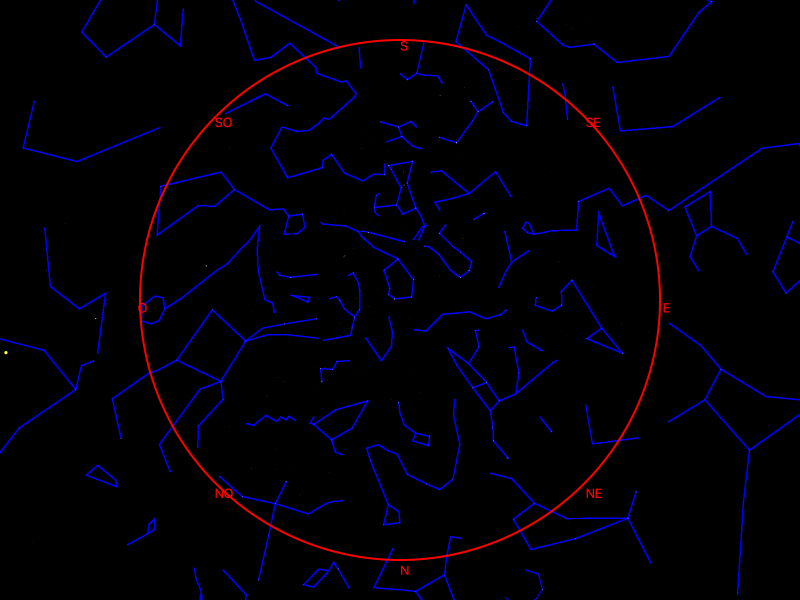
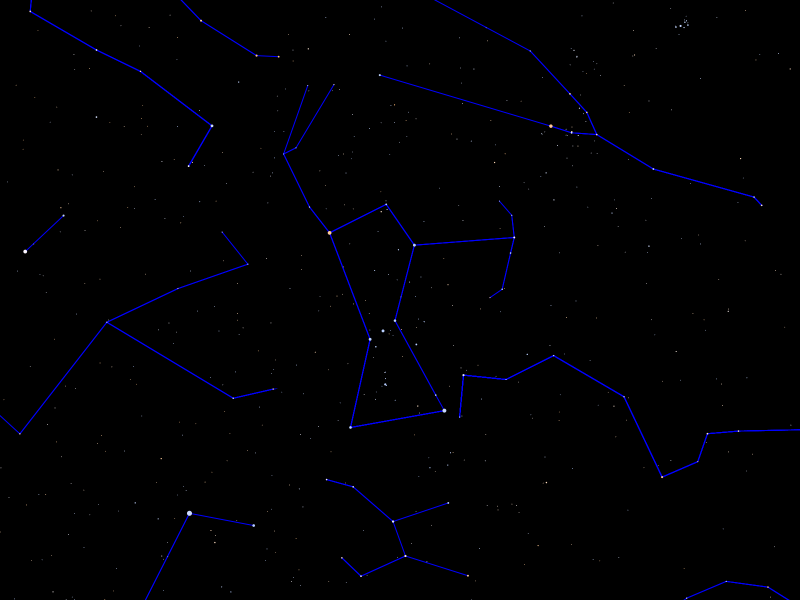
étape 8 améliorations

diff --git a/src/ch/epfl/rigel/gui/SkyCanvasPainter.java b/src/ch/epfl/rigel/gui/SkyCanvasPainter.java
@@ -2,6 +2,8 @@ package ch.epfl.rigel.gui;
 
 import ch.epfl.rigel.astronomy.Asterism;
 import ch.epfl.rigel.astronomy.ObservedSky;
+import ch.epfl.rigel.astronomy.Planet;
+import ch.epfl.rigel.astronomy.Star;
 import ch.epfl.rigel.coordinates.CartesianCoordinates;
 import ch.epfl.rigel.coordinates.HorizontalCoordinates;
 import ch.epfl.rigel.coordinates.StereographicProjection;
@@ -19,126 +21,130 @@ public final class SkyCanvasPainter {
     private Canvas canvas;
     private GraphicsContext ctx;
 
-    private final Color blue = Color.BLUE;
-    private final Color grey = Color.LIGHTGREY;
-    private final Color white = Color.WHITE;
-    private final Color yellow = Color.YELLOW;
-    private final Color opaqueYellow = yellow.deriveColor(1,1,1,0.25);
-    private final Color red = Color.RED;
-    private final Color black = Color.BLACK;
+    private static final Color BLUE = Color.BLUE;
+    private static final Color GREY = Color.LIGHTGREY;
+    private static final Color WHITE = Color.WHITE;
+    private static final Color YELLOW = Color.YELLOW;
+    private static final Color OPAQUE_YELLOW = YELLOW.deriveColor(1, 1, 1, 0.25);
+    private static final Color RED = Color.RED;
+    private static final Color BLACK = Color.BLACK;
 
     private final ClosedInterval interval = ClosedInterval.of(-2, 5);
 
-    public SkyCanvasPainter(Canvas canvas){
+    public SkyCanvasPainter(Canvas canvas) {
         this.canvas = canvas;
         this.ctx = canvas.getGraphicsContext2D();
     }
 
-    public void clear(){
-        ctx.setFill(black);
+    public void clear() {
+        ctx.setFill(BLACK);
         ctx.fillRect(0, 0, canvas.getWidth(), canvas.getHeight());
     }
 
-    public void drawStars(ObservedSky sky, StereographicProjection projection, Transform planeToCanvas){
-        double[] transformedCoordinates = sky.starPositions();
-        planeToCanvas.transform2DPoints(transformedCoordinates, 0, transformedCoordinates, 0, transformedCoordinates.length/2);
-        for(int i=0; i<sky.stars().size(); ++i){
-            double diametre = size(sky.stars().get(i).magnitude(), projection);
-            Point2D point = planeToCanvas.deltaTransform(diametre, 0);
-            double trueDiametre = Math.abs(point.getX());
-            ctx.setFill(BlackBodyColor.colorForTemperature(sky.stars().get(i).colorTemperature()));
-            ctx.fillOval(transformedCoordinates[2*i]-trueDiametre/2, transformedCoordinates[2*i+1]-trueDiametre/2, trueDiametre, trueDiametre);
-        }
-    }
-
-    public void drawPlanets(ObservedSky sky, StereographicProjection projection, Transform planeToCanvas){
-        ctx.setFill(grey);
-        double[] transformedCoordinates = sky.planetPositions();
-        planeToCanvas.transform2DPoints(transformedCoordinates, 0, transformedCoordinates, 0, transformedCoordinates.length/2);
-        for(int i=0; i<sky.planets().size(); ++i){
-            final double diametre = size(sky.planets().get(i).magnitude(), projection);
-            Point2D point = planeToCanvas.deltaTransform(diametre, 0);
-            double trueDiametre = Math.abs(point.getX());
-            ctx.fillOval(transformedCoordinates[2*i]-trueDiametre/2, transformedCoordinates[2*i+1]-trueDiametre/2, trueDiametre, trueDiametre);
-        }
-    }
-
-    public void drawSun(ObservedSky sky, StereographicProjection projection, Transform planeToCanvas){
-        double[] transformedCoordinates = {sky.sunPosition().x(), sky.sunPosition().y()};
-        planeToCanvas.transform2DPoints(transformedCoordinates, 0, transformedCoordinates, 0, 1);
-        final double radius = projection.applyToAngle(sky.sun().angularSize())/2;
-        Point2D point = planeToCanvas.deltaTransform(radius, radius);
-        double trueRadius = Math.abs(point.getX()) + Math.abs(point.getY());
-        ctx.setFill(opaqueYellow);
-        ctx.fillOval(transformedCoordinates[0]-2.2*trueRadius/2, transformedCoordinates[1]-2.2*trueRadius/2, 2.2*trueRadius, 2.2*trueRadius);
-        ctx.setFill(yellow);
-        ctx.fillOval(transformedCoordinates[0]-(trueRadius+2)/2, transformedCoordinates[1]-(trueRadius+2)/2, (trueRadius+2), (trueRadius+2));
-        ctx.setFill(white);
-        ctx.fillOval(transformedCoordinates[0]-trueRadius/2, transformedCoordinates[1]-trueRadius/2, trueRadius, trueRadius);
-    }
-
-    public void drawMoon(ObservedSky sky, StereographicProjection projection, Transform planeToCanvas){
-        double[] transformedCoordinates = {sky.moonPosition().x(), sky.moonPosition().y()};
-        planeToCanvas.transform2DPoints(transformedCoordinates, 0, transformedCoordinates, 0, 1);
-        final double radius = projection.applyToAngle(sky.moon().angularSize())/2;
-        Point2D point = planeToCanvas.deltaTransform(radius, radius);
-        double trueRadius = Math.abs(point.getX()) + Math.abs(point.getY());
-        ctx.setFill(white);
-        ctx.fillOval(transformedCoordinates[0]-trueRadius/2, transformedCoordinates[1]-trueRadius/2, trueRadius, trueRadius);
-    }
-
-    public void drawAsterism(ObservedSky sky, Transform planeToCanvas){
-        ctx.setStroke(blue);
+    public void drawAsterism(ObservedSky sky, Transform planeToCanvas) {
+        ctx.setStroke(BLUE);
         ctx.setLineWidth(1);
+        double[] skyCoordinates = sky.starPositions();
         double[] previousCoordinates = new double[2];
-        double[] actualCoordinates = new double[2];
-        for(Asterism a : sky.asterism()){
-            for(int i=0; i<a.stars().size(); ++i){
-                final int index = sky.asterismIndices(a).get(i);
-                actualCoordinates[0] = sky.starPositions()[2*index];
-                actualCoordinates[1] = sky.starPositions()[2*index + 1];
-                planeToCanvas.transform2DPoints(actualCoordinates, 0, actualCoordinates, 0, 1);
-                if(i==0){
-                    ctx.moveTo(actualCoordinates[0], actualCoordinates[1]);
-                    previousCoordinates = actualCoordinates;
-                }
-                ctx.lineTo(actualCoordinates[0], actualCoordinates[1]);
-                if(canvas.getBoundsInLocal().contains(actualCoordinates[0], actualCoordinates[1]) || canvas.getBoundsInLocal().contains(previousCoordinates[0], previousCoordinates[1])){
+        for (Asterism a : sky.asterism()) {
+            ctx.beginPath();
+            int[] indices = sky.asterismIndices(a).stream()
+                                                  .mapToInt(Integer :: intValue)
+                                                  .toArray();
+            for (int i=0; i<indices.length; ++i) {
+                int index = indices[i];
+                double[] coordinates = {skyCoordinates[2*index], skyCoordinates[2*index + 1]};
+                planeToCanvas.transform2DPoints(coordinates, 0, coordinates, 0, 1);
+                ctx.lineTo(coordinates[0], coordinates[1]);
+                if (canvas.getBoundsInLocal().contains(coordinates[0], coordinates[1]) || canvas.getBoundsInLocal().contains(previousCoordinates[0], previousCoordinates[1])) {
                     ctx.stroke();
                 }
-                previousCoordinates = actualCoordinates;
+                previousCoordinates = coordinates;
             }
         }
     }
 
-    public void drawHorizon(StereographicProjection projection, Transform planeToCanvas){
-        ctx.setStroke(red);
-        ctx.setLineWidth(2);
-        CartesianCoordinates coordinates = projection.circleCenterForParallel(HorizontalCoordinates.of(0,0));
-        double[] transformedCoordinates = {coordinates.x(), coordinates.y()};
-        planeToCanvas.transform2DPoints(transformedCoordinates, 0, transformedCoordinates, 0, 1);
-        double radius = projection.circleRadiusForParallel(HorizontalCoordinates.of(0,0));
-        Point2D point = planeToCanvas.deltaTransform(radius, radius);
-        double trueRadius = Math.abs(point.getX()) + Math.abs(point.getY());
-        ctx.strokeOval(transformedCoordinates[0]-trueRadius/2, transformedCoordinates[1]-trueRadius/2, trueRadius, trueRadius);
-        drawCardinalPoints(projection, planeToCanvas);
-    }
-
-    private void drawCardinalPoints(StereographicProjection projection, Transform planeToCanvas){
-        ctx.setFill(Color.RED);
-        ctx.setTextBaseline(VPos.TOP);
-        for (int i=0; i<8; ++i){
-            HorizontalCoordinates hor = HorizontalCoordinates.ofDeg(45*i, -0.5);
-            CartesianCoordinates coordinates = projection.apply(hor);
-            double[] transformedCoordinates = {coordinates.x(), coordinates.y()};
-            planeToCanvas.transform2DPoints(transformedCoordinates, 0, transformedCoordinates, 0, 1);
-            ctx.fillText(hor.azOctantName("N", "E", "S", "O"), transformedCoordinates[0], transformedCoordinates[1]);
+    public void drawStars(ObservedSky sky, StereographicProjection projection, Transform planeToCanvas) {
+        double[] coordinates = sky.starPositions();
+        planeToCanvas.transform2DPoints(coordinates, 0, coordinates, 0, coordinates.length/2);
+        Star[] stars = sky.stars().stream()
+                                  .toArray(Star[]::new);
+        for (int i=0; i<stars.length; ++i) {
+            double diameter = size(stars[i].magnitude(), projection);
+            Point2D transform = planeToCanvas.deltaTransform(diameter, 0);
+            double trueDiameter = Math.abs(transform.getX());
+            ctx.setFill(BlackBodyColor.colorForTemperature(stars[i].colorTemperature()));
+            ctx.fillOval(coordinates[2*i]-trueDiameter/2, coordinates[2*i+1]-trueDiameter/2, trueDiameter, trueDiameter);
         }
     }
 
-    private double size(double magnitude, StereographicProjection projection){
+    public void drawPlanets(ObservedSky sky, StereographicProjection projection, Transform planeToCanvas) {
+        ctx.setFill(GREY);
+        double[] coordinates = sky.planetPositions();
+        planeToCanvas.transform2DPoints(coordinates, 0, coordinates, 0, coordinates.length / 2);
+        Planet[] planets = sky.planets().stream()
+                                        .toArray(Planet[]::new);
+        for (int i=0; i<planets.length; ++i) {
+            final double diameter = size(planets[i].magnitude(), projection);
+            Point2D transform = planeToCanvas.deltaTransform(diameter, 0);
+            double trueDiameter = Math.abs(transform.getX());
+            ctx.fillOval(coordinates[2*i]-trueDiameter/2, coordinates[2*i+1]-trueDiameter/2, trueDiameter, trueDiameter);
+        }
+    }
+
+    public void drawSun(ObservedSky sky, StereographicProjection projection, Transform planeToCanvas) {
+        double[] coordinates = {sky.sunPosition().x(), sky.sunPosition().y()};
+        planeToCanvas.transform2DPoints(coordinates, 0, coordinates, 0, 1);
+        final double diameter = projection.applyToAngle(sky.sun().angularSize());
+        Point2D transform = planeToCanvas.deltaTransform(diameter, 0);
+        double trueDiameter = Math.abs(transform.getX());
+        ctx.setFill(OPAQUE_YELLOW);
+        ctx.fillOval(coordinates[0]-2.2*trueDiameter/2, coordinates[1]-2.2*trueDiameter/2, 2.2*trueDiameter, 2.2*trueDiameter);
+        ctx.setFill(YELLOW);
+        ctx.fillOval(coordinates[0]-(trueDiameter+2)/2, coordinates[1]-(trueDiameter+2)/2, (trueDiameter+2), (trueDiameter+2));
+        ctx.setFill(WHITE);
+        ctx.fillOval(coordinates[0]-trueDiameter/2, coordinates[1]-trueDiameter/2, trueDiameter, trueDiameter);
+    }
+
+    public void drawMoon(ObservedSky sky, StereographicProjection projection, Transform planeToCanvas) {
+        ctx.setFill(WHITE);
+        double[] coordinates = {sky.moonPosition().x(), sky.moonPosition().y()};
+        planeToCanvas.transform2DPoints(coordinates, 0, coordinates, 0, 1);
+        final double diameter = projection.applyToAngle(sky.moon().angularSize());
+        Point2D transform = planeToCanvas.deltaTransform(diameter, 0);
+        double trueDiameter = Math.abs(transform.getX());
+        ctx.fillOval(coordinates[0]-trueDiameter/2, coordinates[1]-trueDiameter/2, trueDiameter, trueDiameter);
+    }
+
+    public void drawHorizon(StereographicProjection projection, Transform planeToCanvas) {
+        ctx.setStroke(RED);
+        ctx.setLineWidth(2);
+        CartesianCoordinates center = projection.circleCenterForParallel(HorizontalCoordinates.of(0, 0));
+        double[] coordinates = {center.x(), center.y()};
+        planeToCanvas.transform2DPoints(coordinates, 0, coordinates, 0, 1);
+        double diameter = 2 * projection.circleRadiusForParallel(HorizontalCoordinates.of(0, 0));
+        Point2D point = planeToCanvas.deltaTransform(diameter, 0);
+        double trueDiameter = Math.abs(point.getX());
+        ctx.strokeOval(coordinates[0]-trueDiameter/2, coordinates[1]-trueDiameter/2, trueDiameter, trueDiameter);
+        drawCardinalPoints(projection, planeToCanvas);
+    }
+
+    private void drawCardinalPoints(StereographicProjection projection, Transform planeToCanvas) {
+        ctx.setFill(Color.RED);
+        ctx.setTextBaseline(VPos.TOP);
+        for (int i=0; i<8; ++i) {
+            HorizontalCoordinates horCoordinates = HorizontalCoordinates.ofDeg(45*i, -0.5);
+            CartesianCoordinates projCoordinates = projection.apply(horCoordinates);
+            double[] coordinates = {projCoordinates.x(), projCoordinates.y()};
+            planeToCanvas.transform2DPoints(coordinates, 0, coordinates, 0, 1);
+            String text = horCoordinates.azOctantName("N", "E", "S", "O");
+            ctx.fillText(text, coordinates[0], coordinates[1]);
+        }
+    }
+
+    private double size(double magnitude, StereographicProjection projection) {
         final double clipedMagnitude = interval.clip(magnitude);
-        final double function = (99 - 17*clipedMagnitude) / 140;
+        final double function = (99 - 17 * clipedMagnitude) / 140;
         return function * projection.applyToAngle(Angle.ofDeg(0.5));
     }
 

diff --git a/src/ch/epfl/rigel/gui/BlackBodyColor.java b/src/ch/epfl/rigel/gui/BlackBodyColor.java
@@ -16,12 +16,11 @@ import java.util.Map;
 
 public class BlackBodyColor {
 
-    private final static int HASHTAG_START = 0;
-    private final static int HASHTAG_END = 1;
+    private BlackBodyColor(){}
+
     private final static int TEMP_START = 1;
     private final static int TEMP_END = 6;
     private final static int DEG_START = 10;
-    private final static int DEG_END = 15;
     private final static int COLOR_START = 80;
     private final static int COLOR_END = 87;
 
@@ -36,7 +35,7 @@ public class BlackBodyColor {
         String line;
         try(BufferedReader r = new BufferedReader(new InputStreamReader(BlackBodyColor.class.getResourceAsStream(BBR_COLOR), US_ASCII))){
             while((line = r.readLine()) != null) {
-                if(line.substring(HASHTAG_START, HASHTAG_END).equals(" ") && line.substring(DEG_START, DEG_END).equals("10deg")) {
+                if(line.startsWith(" ") && line.startsWith("10deg", DEG_START)) {
                     Color color = Color.web(line.substring(COLOR_START, COLOR_END));
                     tempColor.put((int) Double.parseDouble(line.substring(TEMP_START, TEMP_END)), color);
                 }

diff --git a/src/ch/epfl/rigel/gui/EpflLogo.java b/src/ch/epfl/rigel/gui/EpflLogo.java
@@ -33,7 +33,7 @@ public class EpflLogo extends Application {
         ctx.setFill(Color.WHITE);
         ctx.fillRect(50, 126, 30, 26);
         ctx.fillRect(450, 126, 30, 26);*/
-        ctx.setStroke(Color.RED);
+        /*ctx.setStroke(Color.RED);
         double radius = 50;
         ctx.strokeOval(400-radius/2, 300-radius/2, radius, radius);
         ctx.setStroke(Color.BLUE);
@@ -41,8 +41,16 @@ public class EpflLogo extends Application {
         ctx.beginPath();
         ctx.lineTo(400-radius/2, 300-radius/2);
         ctx.lineTo(400-radius/2, radius);
-        ctx.stroke();
+        ctx.stroke();*/
 
+        ctx.setStroke(Color.RED);
+        ctx.beginPath();
+        //ctx.moveTo(0,0);
+        ctx.lineTo(200, 200);
+        ctx.setStroke(Color.GREEN);
+        ctx.lineTo(300,300);
+        ctx.closePath();
+        ctx.stroke();
 
 
         primaryStage.setScene(new Scene(new BorderPane(canvas)));

diff --git a/test/ch/epfl/rigel/gui/SkyCanvasPainterTest.java b/test/ch/epfl/rigel/gui/SkyCanvasPainterTest.java
@@ -46,7 +46,7 @@ public final class SkyCanvasPainterTest extends Application {
             GeographicCoordinates where =
                     GeographicCoordinates.ofDeg(6.57, 46.52);
             HorizontalCoordinates projCenter =
-                    HorizontalCoordinates.ofDeg(0, 90);
+                    HorizontalCoordinates.ofDeg(180, 45);
             StereographicProjection projection =
                     new StereographicProjection(projCenter);
             ObservedSky sky =
@@ -55,7 +55,7 @@ public final class SkyCanvasPainterTest extends Application {
             Canvas canvas =
                     new Canvas(800, 600);
             Transform planeToCanvas =
-                    Transform.affine(260, 0, 0, -260, 400, 300);
+                    Transform.affine(1300, 0, 0, -1300, 400, 300);
             SkyCanvasPainter painter =
                     new SkyCanvasPainter(canvas);
 
